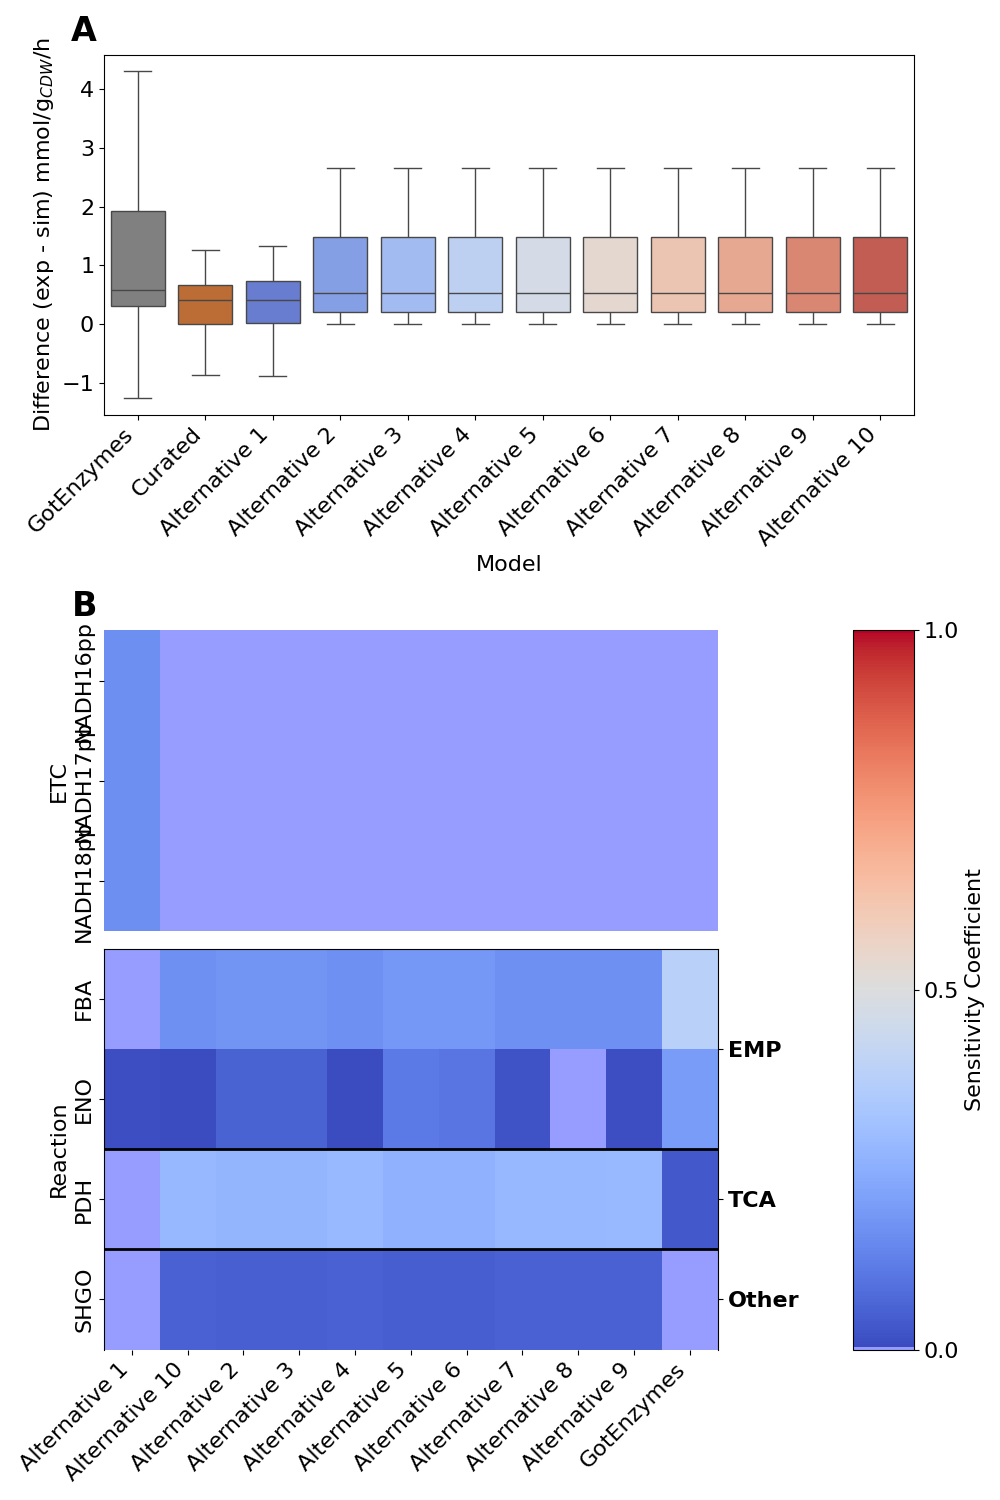
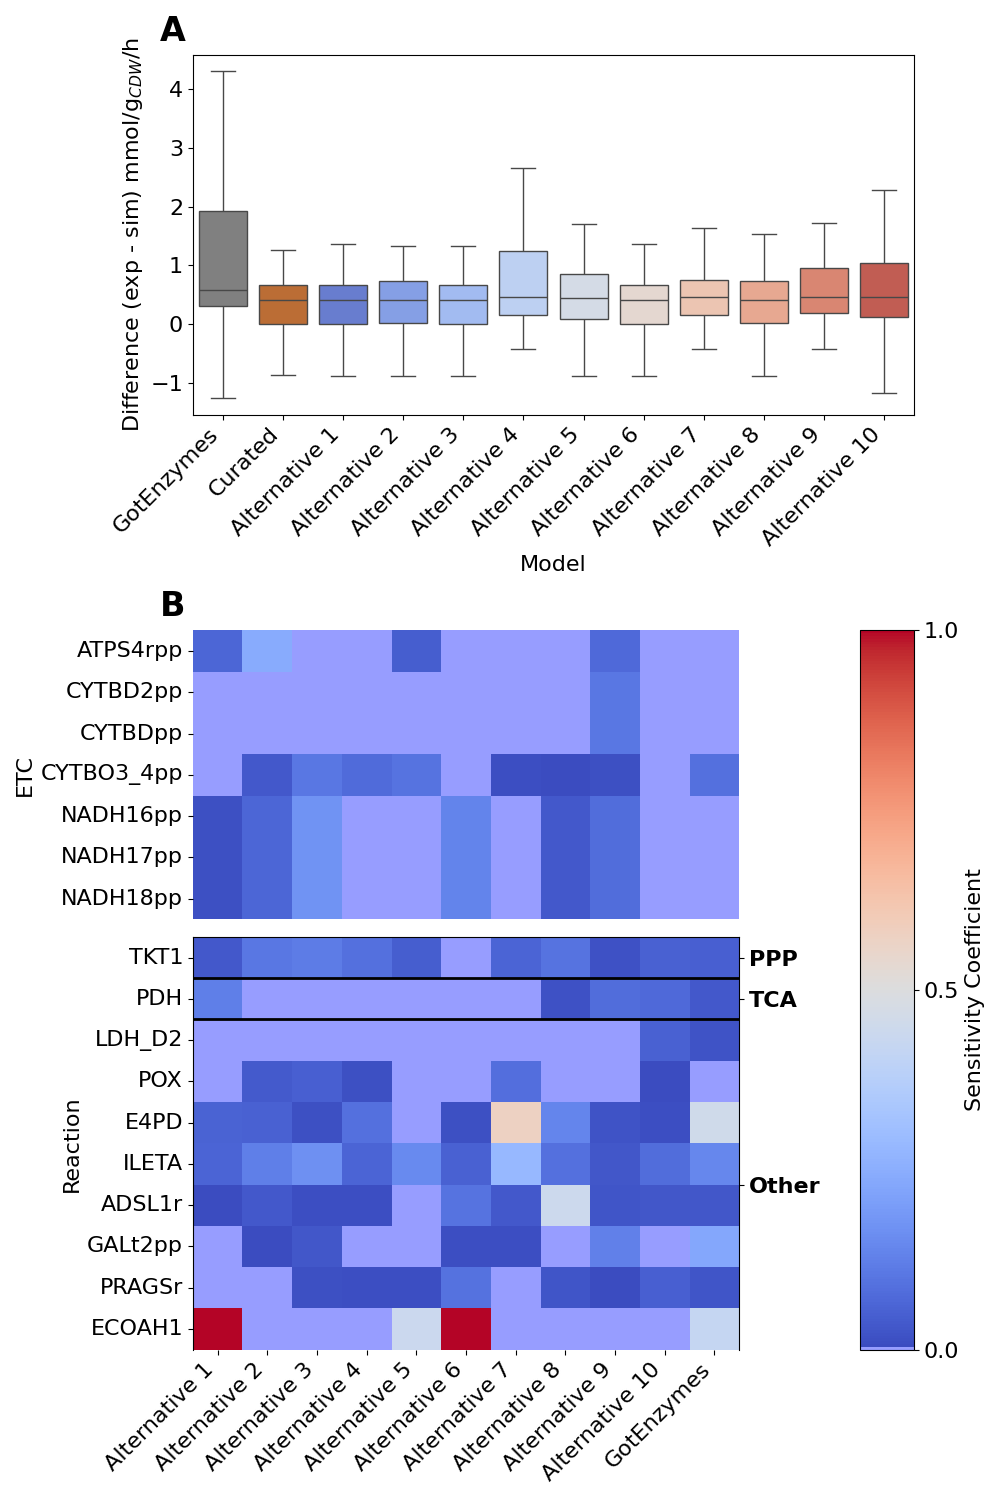
updated figures according to new simulation results

diff --git a/Figures/Scripts/Figure1_iml1515_kcat_analysis.py b/Figures/Scripts/Figure1_iml1515_kcat_analysis.py
@@ -66,7 +66,7 @@ def create_kcat_histogram_old_vs_new(data_file_paths: list[pd.DataFrame],
                                      fontsize =16,
                                      cmap: dict=None):
     # fig, ax = plt.subplots()
-    n_bins = 200
+    n_bins = 50
     i = 0
     if cmap is None: cmap = plt.get_cmap("coolwarm")
 
@@ -88,8 +88,8 @@ def create_kcat_histogram_old_vs_new(data_file_paths: list[pd.DataFrame],
                 color = to_hex(cmap(i/ (len(data_file_paths)-len(other_colors))))
             else:
                 color = cmap[label]
-        bin_heights, bin_borders, _ = ax.hist(kcat_values, bins = logbins, histtype='step',
-                                              stacked=True, fill=False, label= label, color=color, cumulative=cumulative)
+        bin_heights, bin_borders, _ = sns.histplot(kcat_values, bins = logbins, element='poly', ax=ax,
+                                               fill=False, label= label, color=color, cumulative=cumulative)
         calculate_distribution_statistics(bin_heights, bin_borders)
 
     ax.vlines([13.7], 0, 1e4, linestyles='dotted')
@@ -183,15 +183,10 @@ def summarize_and_pivot_cog_info_df_to_long(cog_info_relative: pd.DataFrame):
     cog_info_relative['negative_change'] = cog_info_relative['kcat_change'].apply(lambda x: x if x < 0 else 0)
 
     # Sum of changes grouped by alternative and COG description
-
-    print(cog_info_relative[cog_info_relative['COG description']=='Amino acid transport and metabolism'])
-    print(cog_info_relative[cog_info_relative['alternative']=='5'])
-
     cog_summary = cog_info_relative.groupby(['COG description', 'alternative']).agg({
         'positive_change': 'sum',
         'negative_change': 'sum'
     }).reset_index()
-    print(cog_summary)
 
     # Reshape the data for plotting
     cog_summary_long = pd.melt(
@@ -205,7 +200,7 @@ def summarize_and_pivot_cog_info_df_to_long(cog_info_relative: pd.DataFrame):
 
 def create_cog_barplot(cog_summary_long:pd.DataFrame,
                        ax:plt.Axes,
-                       plotting_threshold=1e9,
+                       plotting_threshold=1e12,
                        bar_width=0.2, spacing_factor = 3,  # Increase spacing
                        fontsize = 15,
                        legend = True,
@@ -271,7 +266,7 @@ def create_cog_barplot(cog_summary_long:pd.DataFrame,
     ax.axvline(0, color='black', linestyle='--', linewidth=1)
 
     # make x-axis logaritmic
-    # ax.set_xscale('symlog')
+    ax.set_xscale('symlog')
     # ax.set_xlim([-2.5 * 1e9, 2.5 * 1e9])
 
     # Adjust y-axis labels
@@ -409,7 +404,7 @@ def main():
         if i==0 or i==1:
             kwargs={'sharex':axs1[i+1]}
         axs1[i]= fig.add_subplot(gs_inner_top[row, col], **kwargs)
-    line, line_axs = recreate_progress_plot(diagnostic_files[:3],
+    line, line_axs = recreate_progress_plot(diagnostic_files,
                                            labels=[f'Alternative {i}' for i in range(1, NUM_ALT_MODELS + 1)],
                                             fig=fig, axs=axs1, legend=False, fontsize=FONTSIZE,
                                             cmap = cmap)
@@ -456,25 +451,6 @@ def main():
                                                 diagnostic_files,
                                                 ax3, legend=False,
                                                 cmap = cmap)
-    # Get the current position of ax3
-    # pos = ax3.get_position()
-
-    # Shrink the axis to fit inside the GridSpec boundaries
-    # ax3.set_position([pos.x0 + 0.2, pos.y0 + 0.2, pos.width - 0.2, pos.height - 0.2])
-
-    # # create a legend
-    # legend_ax = fig.add_subplot(gs_main[2])
-    # legend_ax.axis("off")  # Hide axes
-    #
-    # # Manually create a legend based on the entries of the histogram
-    # handles, labels = [], []
-    # for ax in [line_axs[0], ax2]:
-    #     h, l = ax.get_legend_handles_labels()
-    #     print(h,l)
-    #     if l not in labels:
-    #         handles.extend(h)
-    #         labels.extend(l)
-    # legend_ax.legend(handles, labels, loc="center", ncol=len(labels), frameon=False)
 
     #Add alphabet annotations
     #first 4 axes are added in reverse, and must ignore additional axis for x/y label config

diff --git a/Figures/Scripts/SuppFigures.py b/Figures/Scripts/SuppFigures.py
@@ -111,5 +111,6 @@ def main_sfig_ecoli_intracell_flux():
     )
 
 if __name__ == '__main__':
-    main_sfig_ecoli_intracell_flux()
-    main_sfig_error_progression()
+    # main_sfig_ecoli_intracell_flux()
+    # main_sfig_error_progression()
+    main_sfig_flux_distribution()
